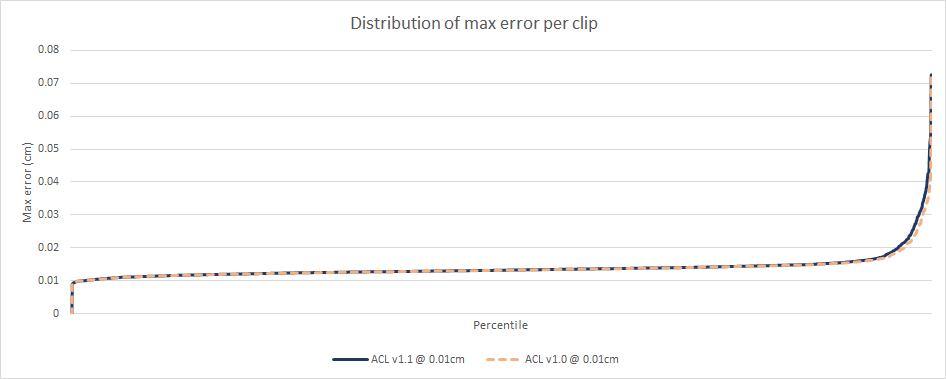
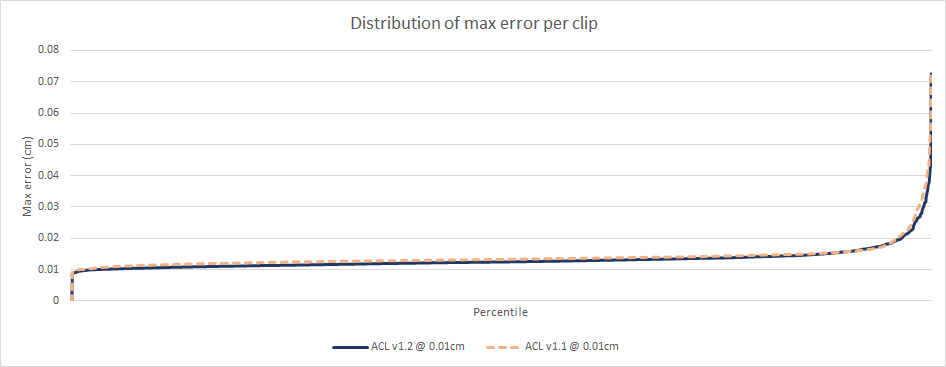
Updating CMU stats and graphs.

diff --git a/docs/cmu_performance.md b/docs/cmu_performance.md
@@ -1,14 +1,14 @@
 # Carnegie-Mellon University database performance
 
-|                       | v1.1.0     | v1.0.0     | v0.8.0     |
+|                       | v1.2.0 | v1.1.0     | v1.0.0     |
 | --------------------- | ---------- | ---------- | ---------- |
-| **Compressed size**   | 67.06 MB   | 67.02 MB   | 67.02 MB   |
-| **Compression ratio** | 21.31 : 1  | 21.33 : 1  | 21.33 : 1  |
-| **Compression time**  | 35m 19.96s | 37m 47.76s | 36m 27.22s |
-| **Compression speed**  | 690.43 KB/sec | 645.43 KB/sec | 669.20 KB/sec |
-| **Max error**         | 0.0725 cm  | 0.0725 cm  | 0.0703 cm  |
-| **Error 99<sup>th</sup> percentile** | 0.0090 cm | 0.0090 cm | 0.0090 cm |
-| **Samples below error threshold** | 99.83 % | 99.83 % | 99.83 % |
+| **Compressed size**   | 71.01 MB | 67.06 MB   | 67.02 MB   |
+| **Compression ratio** | 20.13 : 1 | 21.31 : 1  | 21.33 : 1  |
+| **Compression time**  | 6m 9.71s | 35m 19.96s | 37m 47.76s |
+| **Compression speed**  | 3958.99 KB/sec | 690.43 KB/sec | 645.43 KB/sec |
+| **Max error**         | 0.0725 cm | 0.0725 cm  | 0.0725 cm  |
+| **Error 99<sup>th</sup> percentile** | 0.0089 cm | 0.0090 cm | 0.0090 cm |
+| **Samples below error threshold** | 99.86 % | 99.83 % | 99.83 % |
 
 # Data and method used
 
@@ -31,20 +31,12 @@ The performance of ACL in Unreal Engine 4 is tracked by the plugin [here](https:
 
 ![Compression ratio VS max error per clip](images/acl_cmu_compression_ratio_vs_max_error.png)
 
-
-![Compression ratio by clip duration](images/acl_cmu_compression_ratio_by_duration.png)
-![Compression ratio by clip duration (shortest 100)](images/acl_cmu_compression_ratio_by_duration_shortest_100.png)
 ![Compression ratio distribution](images/acl_cmu_compression_ratio_distribution.png)
-![Compression ratio distribution (bottom 10%)](images/acl_cmu_compression_ratio_distribution_bottom_10.png)
-![Compression ratio histogram](images/acl_cmu_compression_ratio_histogram.png)
 
-
-![Max error by clip duration](images/acl_cmu_max_clip_error_by_duration.png)
 ![Max error distribution](images/acl_cmu_max_error_distribution.png)
-![Max error per clip histogram](images/acl_cmu_max_error_histogram.png)
-
 
 ![Distribution of the error for every bone at every key frame](images/acl_cmu_exhaustive_error.png)
+
 ![Distribution of the error for every bone at every key frame (top 10%)](images/acl_cmu_exhaustive_error_top_10.png)
 
 ![Distribution of clip durations](images/acl_cmu_clip_durations.png)
